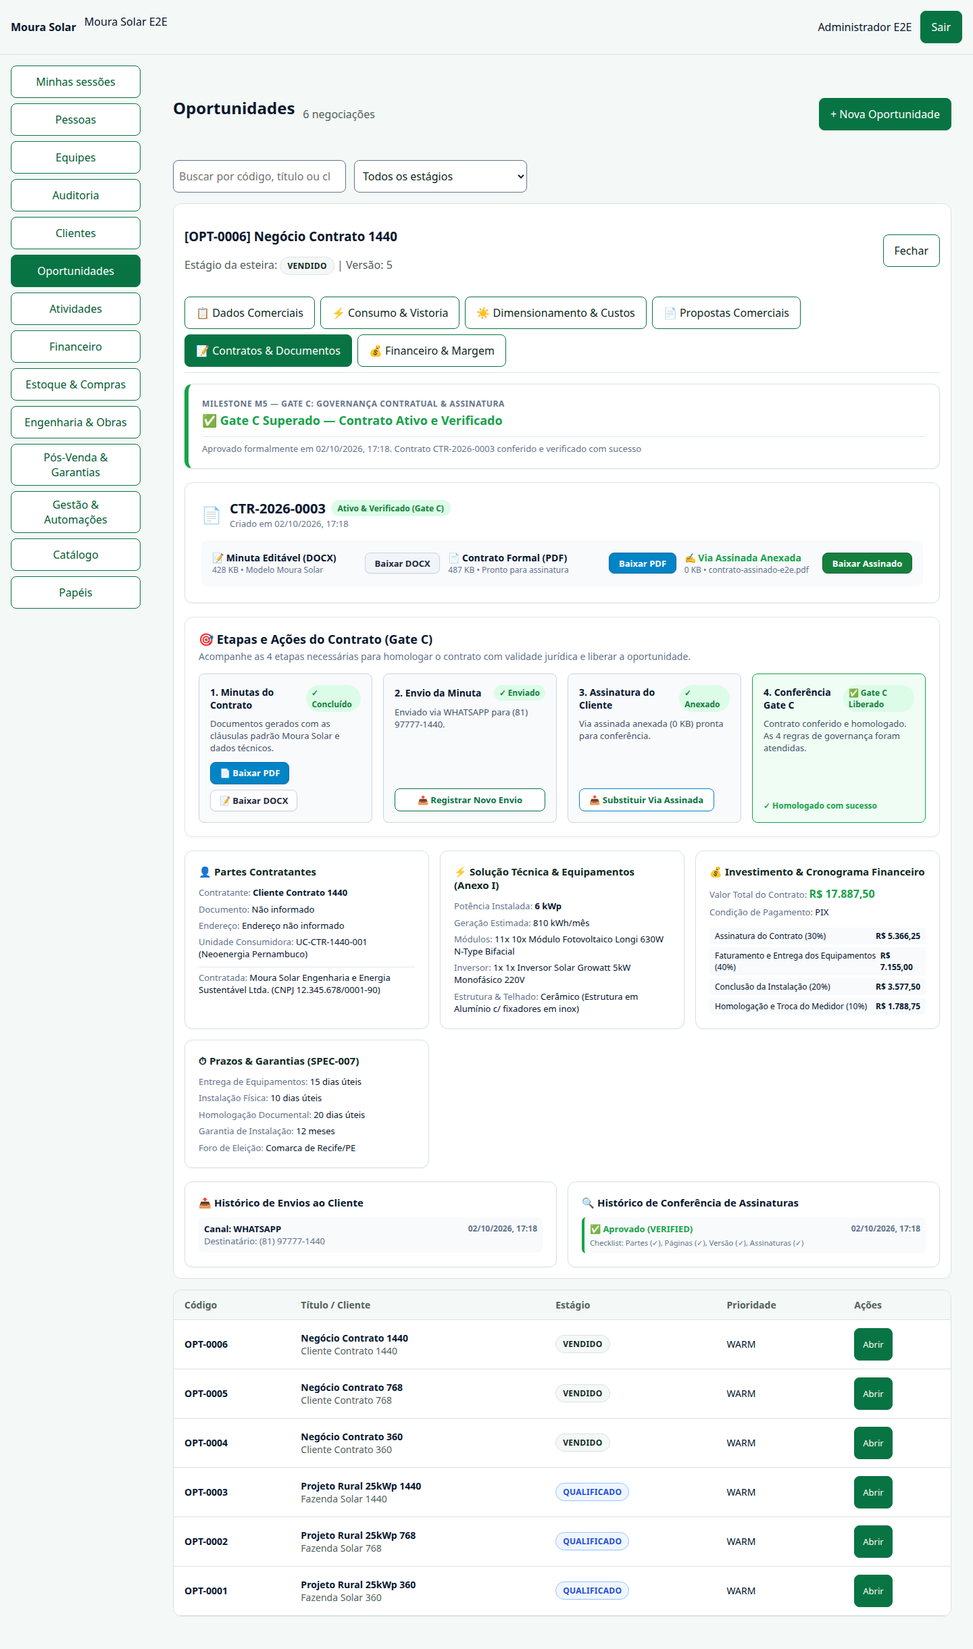
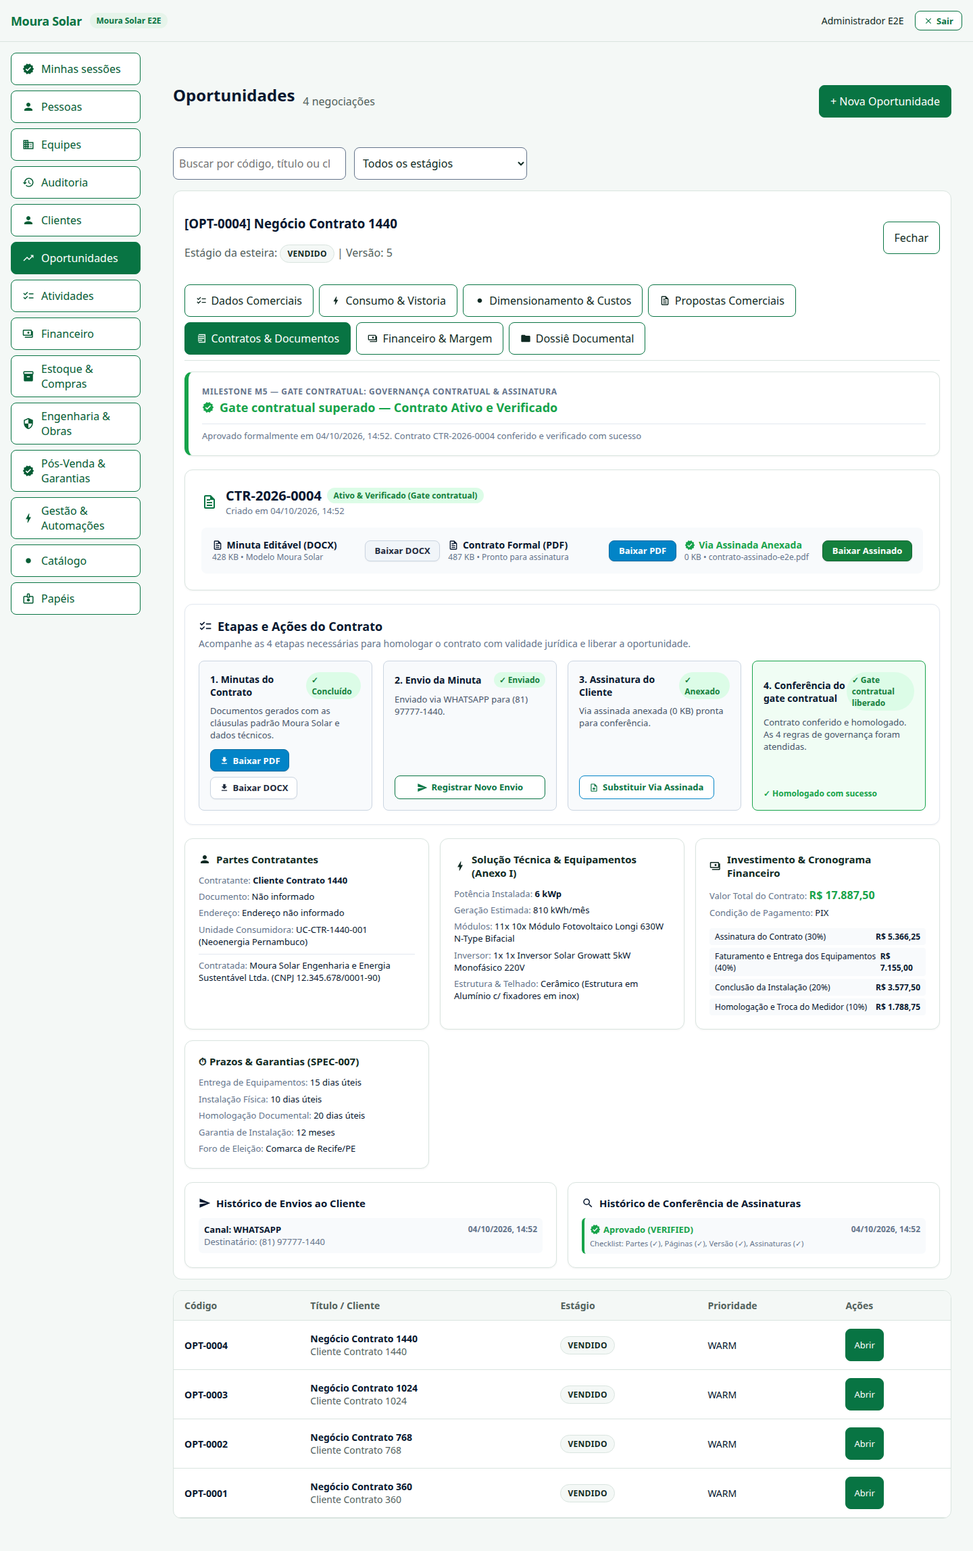
fix(lote-0): nomear gate de contrato pelo codigo real

diff --git a/apps/web/src/features/contract/contracts.tsx b/apps/web/src/features/contract/contracts.tsx
@@ -508,7 +508,7 @@ export function ContractsView({ opportunityId, onRefresh, readonly = false }: Co
         };
       case 'ACTIVE':
       case 'SIGNED_VERIFIED':
-        return { label: 'Ativo & Verificado (Gate C)', color: '#15803d', bg: '#dcfce7' };
+        return { label: 'Ativo & Verificado (Gate contratual)', color: '#15803d', bg: '#dcfce7' };
       case 'AMENDED':
         return { label: 'Com Aditivo', color: '#0369a1', bg: '#e0f2fe' };
       case 'CANCELED':
@@ -534,7 +534,7 @@ export function ContractsView({ opportunityId, onRefresh, readonly = false }: Co
 
   return (
     <div style={{ display: 'flex', flexDirection: 'column', gap: '1.25rem' }}>
-      {/* Top Banner: Gate C status */}
+      {/* Top Banner: Contract gate status */}
       <div
         className="card"
         style={{
@@ -564,7 +564,7 @@ export function ContractsView({ opportunityId, onRefresh, readonly = false }: Co
                 fontWeight: 600,
               }}
             >
-              Milestone M5 — Gate C: Governança Contratual & Assinatura
+              Milestone M5 — Gate contratual: Governança Contratual & Assinatura
             </div>
             <div
               style={{
@@ -578,14 +578,15 @@ export function ContractsView({ opportunityId, onRefresh, readonly = false }: Co
                 <span
                   style={{ color: '#16a34a', display: 'flex', alignItems: 'center', gap: '0.5rem' }}
                 >
-                  <Icon name="verified" size={18} /> Gate C Superado — Contrato Ativo e Verificado
+                  <Icon name="verified" size={18} /> Gate contratual superado — Contrato Ativo e
+                  Verificado
                 </span>
               ) : (
                 <span
                   style={{ color: '#ca8a04', display: 'flex', alignItems: 'center', gap: '0.5rem' }}
                 >
-                  <Icon name="schedule" size={18} /> Gate C Pendente — Aguardando Assinatura e
-                  Conferência Formal
+                  <Icon name="schedule" size={18} /> Gate contratual pendente — Aguardando
+                  Assinatura e Conferência Formal
                 </span>
               )}
             </div>
@@ -660,7 +661,7 @@ export function ContractsView({ opportunityId, onRefresh, readonly = false }: Co
           >
             Assim que a proposta comercial for aceita formalmente pelo cliente, gere o contrato
             padrão Moura Solar com minutas em DOCX e PDF para coleta de assinaturas e liberação do
-            Gate C.
+            gate contratual.
           </p>
           {!readonly && canCreate && (
             <button
@@ -833,7 +834,7 @@ export function ContractsView({ opportunityId, onRefresh, readonly = false }: Co
                       gap: '0.4rem',
                     }}
                   >
-                    <Icon name="search" size={16} /> Conferência de Assinatura (Gate C)
+                    <Icon name="search" size={16} /> Conferência de Assinatura (gate contratual)
                   </button>
                 )}
               </div>
@@ -976,7 +977,7 @@ export function ContractsView({ opportunityId, onRefresh, readonly = false }: Co
             </div>
           </div>
 
-          {/* Contract Stage Pipeline & Action Hub (Gate C) */}
+          {/* Contract Stage Pipeline & Action Hub */}
           <div
             className="card"
             style={{
@@ -999,7 +1000,7 @@ export function ContractsView({ opportunityId, onRefresh, readonly = false }: Co
                   gap: '0.5rem',
                 }}
               >
-                <Icon name="checklist" size={20} /> Etapas e Ações do Contrato (Gate C)
+                <Icon name="checklist" size={20} /> Etapas e Ações do Contrato
               </h3>
               <p
                 style={{
@@ -1328,7 +1329,7 @@ export function ContractsView({ opportunityId, onRefresh, readonly = false }: Co
                 );
               })()}
 
-              {/* Step 4: Conferência Gate C */}
+              {/* Step 4: Conferência do gate contratual */}
               {(() => {
                 const isSatisfied = gate?.status === 'SATISFIED';
                 const isReadyForReview = contract.state === 'SIGNED_UPLOADED';
@@ -1364,7 +1365,7 @@ export function ContractsView({ opportunityId, onRefresh, readonly = false }: Co
                         }}
                       >
                         <span style={{ fontWeight: 700, fontSize: '0.875rem' }}>
-                          4. Conferência Gate C
+                          4. Conferência do gate contratual
                         </span>
                         <span
                           style={{
@@ -1385,7 +1386,7 @@ export function ContractsView({ opportunityId, onRefresh, readonly = false }: Co
                           }}
                         >
                           {isSatisfied
-                            ? '✓ Gate C Liberado'
+                            ? '✓ Gate contratual liberado'
                             : isReadyForReview
                               ? 'Pronto p/ Conferência'
                               : 'Bloqueado'}
@@ -1395,7 +1396,7 @@ export function ContractsView({ opportunityId, onRefresh, readonly = false }: Co
                         {isSatisfied
                           ? 'Contrato conferido e homologado. As 4 regras de governança foram atendidas.'
                           : isReadyForReview
-                            ? 'Valide partes, páginas, versão e assinaturas para ativar o contrato e liberar o Gate C.'
+                            ? 'Valide partes, páginas, versão e assinaturas para ativar o contrato e liberar o gate contratual.'
                             : 'Disponível após o anexo da via assinada pelo cliente.'}
                       </p>
                     </div>
@@ -1425,7 +1426,7 @@ export function ContractsView({ opportunityId, onRefresh, readonly = false }: Co
                           gap: '0.4rem',
                         }}
                       >
-                        <Icon name="search" size={16} /> Realizar Conferência Gate C
+                        <Icon name="search" size={16} /> Realizar Conferência do gate contratual
                       </button>
                     )}
 
@@ -2828,7 +2829,7 @@ export function ContractsView({ opportunityId, onRefresh, readonly = false }: Co
             </div>
             <p style={{ fontSize: '0.875rem', color: 'var(--text-muted)', margin: '0 0 1rem 0' }}>
               O envio da via assinada moverá o contrato para <strong>SIGNED_UPLOADED</strong>. O
-              Gate C será liberado apenas após a conferência formal.
+              gate contratual será liberado apenas após a conferência formal.
             </p>
 
             <form
@@ -2916,7 +2917,7 @@ export function ContractsView({ opportunityId, onRefresh, readonly = false }: Co
         </div>
       )}
 
-      {/* MODAL 5: Formal Conference Checklist (Gate C) */}
+      {/* MODAL 5: Formal Conference Checklist (contract gate) */}
       {isReviewing && (
         <div
           className="modal-backdrop"
@@ -2943,7 +2944,8 @@ export function ContractsView({ opportunityId, onRefresh, readonly = false }: Co
                   gap: '0.5rem',
                 }}
               >
-                <Icon name="checklist" size={20} /> Conferência Formal de Assinatura (Gate C)
+                <Icon name="checklist" size={20} /> Conferência Formal de Assinatura (gate
+                contratual)
               </h3>
               <button
                 type="button"
@@ -3111,7 +3113,7 @@ export function ContractsView({ opportunityId, onRefresh, readonly = false }: Co
                         gap: '0.35rem',
                       }}
                     >
-                      <Icon name="check_circle" size={16} /> Aprovar e Liberar Gate C
+                      <Icon name="check_circle" size={16} /> Aprovar e Liberar gate contratual
                     </span>
                   </label>
 
@@ -3233,7 +3235,7 @@ export function ContractsView({ opportunityId, onRefresh, readonly = false }: Co
                   {reviewMutation.isPending
                     ? 'Homologando...'
                     : reviewDecision === 'VERIFIED'
-                      ? 'Aprovar e Liberar Gate C'
+                      ? 'Aprovar e Liberar gate contratual'
                       : 'Confirmar Rejeição'}
                 </button>
               </div>

diff --git a/tests/e2e/contract.spec.ts b/tests/e2e/contract.spec.ts
@@ -18,9 +18,10 @@ try {
 for (const [width, height] of [
   [360, 800],
   [768, 1024],
+  [1024, 900],
   [1440, 900],
 ]) {
-  test(`full contract lifecycle (DOCX/PDF engine, delivery, signed upload, conference checklist, Gate C to VENDIDO) at ${width}px`, async ({
+  test(`full contract lifecycle (DOCX/PDF engine, delivery, signed upload, conference checklist, contract gate to VENDIDO) at ${width}px`, async ({
     page,
     request,
   }, testInfo) => {
@@ -165,8 +166,8 @@ for (const [width, height] of [
     // 8. Navigate to M5: Contratos & Documentos sub-tab
     await page.getByRole('button', { name: 'Contratos & Documentos' }).click();
 
-    // Verify Gate C status shows PENDING
-    await expect(page.getByText(/Gate C Pendente/)).toBeVisible();
+    // Verify the contract gate shows PENDING
+    await expect(page.getByText(/Gate contratual pendente/)).toBeVisible();
     await expect(page.getByText('Nenhum contrato formal gerado ainda')).toBeVisible();
 
     // 9. Generate Contract (DOCX & PDF)
@@ -219,16 +220,16 @@ for (const [width, height] of [
     // Verify status updated to SIGNED_UPLOADED
     await expect(page.getByText('Assinado Anexado (Aguardando Conferência)')).toBeVisible();
 
-    // Verify Gate C is still PENDING (SPEC-007 Item 4 & 9: Upload does not activate prematurely)
-    await expect(page.getByText(/Gate C Pendente/)).toBeVisible();
+    // Verify contract gate is still PENDING (SPEC-007: upload does not activate prematurely)
+    await expect(page.getByText(/Gate contratual pendente/)).toBeVisible();
     await expect(
       page.locator('section[aria-label="Detalhes da oportunidade"] .badge-vendido'),
     ).not.toBeVisible();
 
-    // 12. Formal Conference Checklist (Gate C)
-    await page.getByRole('button', { name: 'Conferência de Assinatura (Gate C)' }).click();
+    // 12. Formal Conference Checklist (contract gate)
+    await page.getByRole('button', { name: 'Conferência de Assinatura (gate contratual)' }).click();
     await expect(
-      page.getByRole('heading', { name: 'Conferência Formal de Assinatura (Gate C)' }),
+      page.getByRole('heading', { name: 'Conferência Formal de Assinatura (gate contratual)' }),
     ).toBeVisible();
 
     // Check all 4 items
@@ -239,11 +240,13 @@ for (const [width, height] of [
     await checkboxes.nth(3).check();
 
     // Submit Approval
-    await page.getByRole('button', { name: 'Aprovar e Liberar Gate C' }).click();
+    await page.getByRole('button', { name: 'Aprovar e Liberar gate contratual' }).click();
 
-    // 13. Verify Gate C Satisfied & Opportunity state advances to VENDIDO!
-    await expect(page.getByText(/Gate C Superado — Contrato Ativo e Verificado/)).toBeVisible();
-    await expect(page.getByText('Ativo & Verificado (Gate C)')).toBeVisible();
+    // 13. Verify contract gate satisfaction & Opportunity transition to VENDIDO.
+    await expect(
+      page.getByText(/Gate contratual superado — Contrato Ativo e Verificado/),
+    ).toBeVisible();
+    await expect(page.getByText('Ativo & Verificado (Gate contratual)')).toBeVisible();
     await expect(
       page.locator('section[aria-label="Detalhes da oportunidade"] .badge-vendido'),
     ).toBeVisible();

diff --git a/apps/api/src/contract/contract.service.ts b/apps/api/src/contract/contract.service.ts
@@ -548,7 +548,7 @@ export class ContractService {
             },
           });
 
-          // Initialize ProjectGate for Contract (Pending Gate C)
+          // Initialize the contract ProjectGate in its pending state.
           await tx.projectGate.create({
             data: {
               organizationId,
@@ -1147,7 +1147,7 @@ export class ContractService {
           customerId: contract.opportunity.customer.id,
           type: 'TASK',
           subject: `Conferência de Assinatura: ${contract.code}`,
-          description: `Novo arquivo assinado "${safeFileName}" anexado. Realizar conferência das partes, páginas completas, correspondência da versão e legibilidade antes de liberar o Gate C.`,
+          description: `Novo arquivo assinado "${safeFileName}" anexado. Realizar conferência das partes, páginas completas, correspondência da versão e legibilidade antes de liberar o gate contratual.`,
           assigneeUserId: userId,
           dueAt: new Date(Date.now() + 24 * 3600000),
           status: 'OPEN',
@@ -1231,7 +1231,7 @@ export class ContractService {
           data: { state: 'ACTIVE' },
         });
 
-        // 3. Satisfy Gate C (CONTRACT)
+        // 3. Satisfy the contract gate (CONTRACT)
         const gate = await tx.projectGate.findFirst({
           where: {
             opportunityId: contract.opportunityId,
@@ -1264,7 +1264,7 @@ export class ContractService {
           });
         }
 
-        // 4. Advance Opportunity to VENDIDO (Closed/Won, Gate C)
+        // 4. Advance Opportunity to VENDIDO after contract verification.
         const opp = contract.opportunity;
         if (opp.state !== 'VENDIDO') {
           await tx.opportunity.update({
@@ -1282,7 +1282,7 @@ export class ContractService {
               toState: 'VENDIDO',
               command: 'CONCLUIR_CONTRATO_GATE_C',
               actorId: userId,
-              justification: `Contrato assinado ${contract.code} conferido e verificado. Gate C superado com sucesso.`,
+              justification: `Contrato assinado ${contract.code} conferido e verificado. Gate contratual superado com sucesso.`,
             },
           });
         }
@@ -1295,7 +1295,7 @@ export class ContractService {
             customerId: opp.customer.id,
             type: 'TASK',
             subject: `Engenharia & Executivo: Oportunidade ${opp.code}`,
-            description: `Contrato assinado e verificado (Gate C). Iniciar elaboração do projeto executivo de engenharia e solicitação de acesso junto à concessionária.`,
+            description: `Contrato assinado e verificado. Gate contratual superado. Iniciar elaboração do projeto executivo de engenharia e solicitação de acesso junto à concessionária.`,
             assigneeUserId: userId,
             dueAt: new Date(reviewedAt.getTime() + 3 * 86400000),
             status: 'OPEN',

diff --git a/apps/api/test/contract.spec.ts b/apps/api/test/contract.spec.ts
@@ -4,7 +4,7 @@ import {
   type ContractTemplateData,
 } from '../src/contract/contract-generator.service';
 
-describe('SPEC-007 Contracts, Document Engine, Lifecycle & Gate C Governance', () => {
+describe('SPEC-007 Contracts, Document Engine, Lifecycle & Contract Gate Governance', () => {
   const generator = new ContractGeneratorService();
 
   const mockContractData: ContractTemplateData = {

diff --git a/docs/evidencias/m5/README.md b/docs/evidencias/m5/README.md
@@ -1,20 +1,20 @@
-# Evidências do M5 — Contratos Comerciais, Minutas DOCX/PDF, Conferência de Assinatura e Gate C (FV1.8 / SPEC-007)
+# Evidências do M5 — Contratos Comerciais, Minutas DOCX/PDF e Gate Contratual (FV1.8 / SPEC-007)
 
 Validação local em Node 22.22.1, pnpm 11.25.0 e PostgreSQL 17 isolado.
 
-| Verificação                      | Resultado                                                                                                    |
-| -------------------------------- | ------------------------------------------------------------------------------------------------------------ |
-| `pnpm check`                     | Formatação, lint (0 warnings), TypeScript, testes e builds (Next.js/NestJS) aprovados                        |
-| Unitários API                    | 6 testes no motor de DOCX/PDF, integridade de hash e regras de conferência (`contract.spec.ts`)              |
-| `tests/contract.integration.mjs` | 7 cenários HTTP/PostgreSQL completos de emissão, downloads, envios, upload, rejeição e Gate C                |
-| `pnpm test:migrations`           | Upgrade sequencial M0 → M1 → M2 → M3 → M4 → M5 preserva integridade; reaplicação idempotente aprovada        |
-| `tests/e2e/contract.spec.ts`     | 2 jornadas E2E completas aprovadas no Playwright (viewports 360px e 1440px) com evidências capturadas        |
-| Minuta DOCX Oficial              | Preenchimento automático do modelo Moura Solar com placeholders de partes, BOM, prazos, escopo e assinaturas |
-| Contrato PDF Institucional       | Geração com layout executivo, logotipo oficial da marca, memorial descritivo, cronograma financeiro e anexos |
-| Upload Não-Ativante              | Anexar documento assinado altera status para `SIGNED_UPLOADED` sem liberar execução prematura (SPEC-007)     |
-| Conferência Formal (Gate C)      | Checklist de 4 critérios obrigatórios (partes, páginas completas, versão e legibilidade)                     |
-| Transição para VENDIDO           | Aprovação formal da conferência satisfaz o `ProjectGate`, avança oportunidade para `VENDIDO` e agenda obras  |
-| Responsividade Total             | Zero overflow horizontal em 360px (mobile) e 1440px (desktop), cards e modais adaptáveis                     |
+| Verificação                          | Resultado                                                                                                      |
+| ------------------------------------ | -------------------------------------------------------------------------------------------------------------- |
+| `pnpm check`                         | Formatação, lint (0 warnings), TypeScript, testes e builds (Next.js/NestJS) aprovados                          |
+| Unitários API                        | 6 testes no motor de DOCX/PDF, integridade de hash e regras de conferência (`contract.spec.ts`)                |
+| `tests/contract.integration.mjs`     | 7 cenários HTTP/PostgreSQL completos de emissão, downloads, envios, upload, rejeição e gate contratual         |
+| `pnpm test:migrations`               | Upgrade sequencial M0 → M1 → M2 → M3 → M4 → M5 preserva integridade; reaplicação idempotente aprovada          |
+| `tests/e2e/contract.spec.ts`         | 4 jornadas E2E completas aprovadas no Playwright (viewports 360, 768, 1024 e 1440px) com evidências capturadas |
+| Minuta DOCX Oficial                  | Preenchimento automático do modelo Moura Solar com placeholders de partes, BOM, prazos, escopo e assinaturas   |
+| Contrato PDF Institucional           | Geração com layout executivo, logotipo oficial da marca, memorial descritivo, cronograma financeiro e anexos   |
+| Upload Não-Ativante                  | Anexar documento assinado altera status para `SIGNED_UPLOADED` sem liberar execução prematura (SPEC-007)       |
+| Conferência Formal (gate contratual) | Checklist de 4 critérios obrigatórios (partes, páginas completas, versão e legibilidade)                       |
+| Transição para VENDIDO               | Aprovação formal da conferência satisfaz o `ProjectGate`, avança oportunidade para `VENDIDO` e agenda obras    |
+| Responsividade Total                 | Zero overflow horizontal em 360, 768, 1024 e 1440px; cards e modais adaptáveis                                 |
 
 ## Jornadas e Cenários Validados
 
@@ -35,10 +35,10 @@ Validação local em Node 22.22.1, pnpm 11.25.0 e PostgreSQL 17 isolado.
 
 4. **Upload de Via Assinada e Regra de Não-Ativação Prematura (SPEC-007 Itens 4 e 9):**
    - Upload de documento digitalizado ou assinado eletronicamente pelo cliente.
-   - O contrato avança estritamente para `SIGNED_UPLOADED` e **não ativa a execução nem o Gate C automaticamente**.
+   - O contrato avança estritamente para `SIGNED_UPLOADED` e **não ativa a execução nem o gate contratual automaticamente**.
    - Criação de tarefa interna para a equipe jurídica/administrativa realizar a conferência formal do documento.
 
-5. **Conferência Formal de Assinatura e Liberação do Gate C (SPEC-007 Itens 10 e 11):**
+5. **Conferência Formal de Assinatura e Liberação do gate contratual (SPEC-007 Itens 10 e 11):**
    - Interface com checklist de 4 critérios essenciais de validação:
      1. Correspondência dos dados das partes com o cadastro.
      2. Presença de todas as páginas, cláusulas e anexos I a IV.
@@ -48,14 +48,16 @@ Validação local em Node 22.22.1, pnpm 11.25.0 e PostgreSQL 17 isolado.
    - Na aprovação (`VERIFIED`):
      - Contrato avança para o estado `ACTIVE`.
      - `ProjectGate` (tipo `CONTRACT`) é marcado como `SATISFIED`.
-     - A oportunidade comercial atinge o marco **Gate C** e transiciona automaticamente para o estágio `VENDIDO` (Closed/Won).
+     - A oportunidade comercial transiciona para `VENDIDO` (Closed/Won) conforme o comportamento atual implementado.
      - Atividade da fase executiva de engenharia é agendada para início do projeto executivo e solicitação de acesso junto à concessionária de energia.
 
-6. **Jornada Ponta a Ponta Playwright (360px e 1440px):**
+6. **Jornada Ponta a Ponta Playwright (360, 768, 1024 e 1440px):**
    - Execução do fluxo completo de ponta a ponta: login, criação de cliente e oportunidade, consumo, dimensionamento aprovado, proposta aceita, navegação para a aba "Contratos & Documentos", geração de contrato DOCX/PDF, registro de envio, upload de via assinada, conferência formal com aprovação do checklist e constatação do avanço para `VENDIDO`.
    - Validação de responsividade mobile estrita sem nenhum transbordamento horizontal.
 
 ## Capturas representativas
 
-- [Contrato Comercial, Minutas DOCX/PDF, Assinatura e Gate C — 360 px (Mobile)](contrato-360.png)
-- [Contrato Comercial, Minutas DOCX/PDF, Assinatura e Gate C — 1440 px (Desktop)](contrato-1440.png)
+- [Contrato comercial e gate contratual — 360 px (mobile)](contrato-360.png)
+- [Contrato comercial e gate contratual — 768 px (tablet)](contrato-768.png)
+- [Contrato comercial e gate contratual — 1024 px](contrato-1024.png)
+- [Contrato comercial e gate contratual — 1440 px (desktop)](contrato-1440.png)

diff --git a/docs/lote-0-baseline.md b/docs/lote-0-baseline.md
@@ -21,6 +21,20 @@ criação e atualização rejeitadas, vínculos válidos e persistência do vín
 aceito. Usa PostgreSQL local na porta 5433 e schema aleatório `test_comm_*`,
 removido ao final do teste.
 
+## Incremento A15 — identificar pelo código real o gate contratual
+
+A tela M5 chamava o `ProjectGate` de tipo `CONTRACT` de “Gate C”. Na proposta
+de jornada da SPEC-001, Gate C significa proposta pronta para envio; o tipo
+persistido `CONTRACT` representa a conferência e verificação do contrato da
+SPEC-007. A UI e as mensagens de auditoria agora dizem “gate contratual” e
+“gate contratual pendente/superado”, sem alterar tipo, estado ou transição do
+domínio.
+
+A numeração final e a correspondência entre gates comerciais e operacionais
+continuam propostas para validação humana; este incremento não escolhe uma
+sequência normativa. A regressão E2E do contrato verifica os rótulos antes e
+depois da conferência em todos os viewports existentes.
+
 ## Incremento A09 — criar e vincular a UC em uma operação
 
 O formulário de consumo fazia POST para criar a UC e depois PATCH para associá-la
@@ -49,6 +63,6 @@ e conserva os dados digitados para uma nova tentativa explícita.
 - `PATH="$PWD/.bin:$PATH" pnpm check`: formato, lint, tipos, testes e builds
   aprovados; API 1.208 testes, web 5 e PoC 24.
 
-Este registro cobre as reproduções A09/A10. A baseline completa ainda deve
-avaliar A08 e A15. A persistência insegura identificada em A11 foi tratada no
+Este registro cobre as reproduções A09/A10/A15. A baseline completa ainda deve
+avaliar A08. A persistência insegura identificada em A11 foi tratada no
 incremento do lote 4, registrado em `docs/lote-4-revisao-e-validacao.md`.
